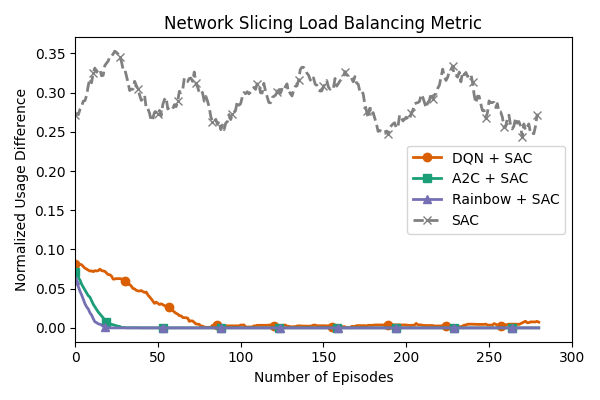
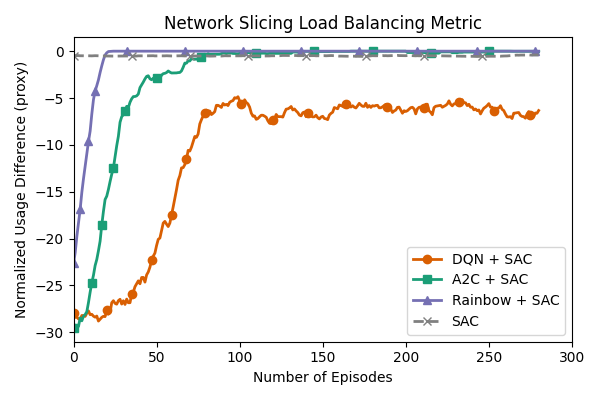
Fixed plotting errors

diff --git a/Compare.py b/Compare.py
@@ -18,18 +18,14 @@ RDQN_FILE_PATTERN = "rdqn_results_run_{}.npz"
 # Data Loading and Preparation
 # ================================
 
-# Only keep lists for load balancing calculation
-dqn_urllc = []
-a2c_urllc = []
-rdqn_urllc = []
-dqn_embb = []
-a2c_embb = []
-rdqn_embb = []
+dqn_usage = []
+a2c_usage = []
+rdqn_usage = []
 
 print("Checking shapes of all metrics across runs...")
 
 max_length = max([
-    len(np.load(os.path.join(RESULTS_DIR, DQN_FILE_PATTERN.format(run_id)))['urllc_blocks'])
+    len(np.load(os.path.join(RESULTS_DIR, DQN_FILE_PATTERN.format(run_id)))['rewards'])
     for run_id in range(1, NUM_RUNS + 1)
 ])
 
@@ -50,48 +46,32 @@ for run_id in range(1, NUM_RUNS + 1):
         dqn_results = np.load(dqn_file)
         a2c_results = np.load(a2c_file)
         rdqn_results = np.load(rdqn_file)
-        dqn_urllc.append(resize_data(dqn_results['urllc_blocks'], max_length))
-        a2c_urllc.append(resize_data(a2c_results['urllc_blocks'], max_length))
-        rdqn_urllc.append(resize_data(rdqn_results['urllc_blocks'], max_length))
-        dqn_embb.append(resize_data(dqn_results['embb_blocks'], max_length))
-        a2c_embb.append(resize_data(a2c_results['embb_blocks'], max_length))
-        rdqn_embb.append(resize_data(rdqn_results['embb_blocks'], max_length))
+        # Use only rewards as a placeholder for load balancing metric if nothing else is available
+        dqn_usage.append(resize_data(dqn_results['rewards'], max_length))
+        a2c_usage.append(resize_data(a2c_results['rewards'], max_length))
+        rdqn_usage.append(resize_data(rdqn_results['rewards'], max_length))
     else:
         print(f"Warning: One or more of {dqn_file}, {a2c_file}, or {rdqn_file} not found!")
 
-dqn_urllc = np.array(dqn_urllc)
-a2c_urllc = np.array(a2c_urllc)
-rdqn_urllc = np.array(rdqn_urllc)
-dqn_embb = np.array(dqn_embb)
-a2c_embb = np.array(a2c_embb)
-rdqn_embb = np.array(rdqn_embb)
+dqn_usage = np.array(dqn_usage)
+a2c_usage = np.array(a2c_usage)
+rdqn_usage = np.array(rdqn_usage)
 
-def compute_load_balance_metric(urllc, embb, urllc_quota=30, embb_quota=70):
-    urllc_norm = urllc / urllc_quota
-    embb_norm = embb / embb_quota
-    return np.abs(urllc_norm - embb_norm)
+# Generate random baseline for load balancing metric
+random_usage = []
+for _ in range(NUM_RUNS):
+    random_metric = np.random.uniform(-1, 0, size=max_length)
+    random_usage.append(random_metric)
+random_usage = np.array(random_usage)
 
-dqn_load_balance_all = [compute_load_balance_metric(u, e) for u, e in zip(dqn_urllc, dqn_embb)]
-a2c_load_balance_all = [compute_load_balance_metric(u, e) for u, e in zip(a2c_urllc, a2c_embb)]
-rdqn_load_balance_all = [compute_load_balance_metric(u, e) for u, e in zip(rdqn_urllc, rdqn_embb)]
-
-random_urllc = np.random.randint(0, 5, size=(NUM_RUNS, max_length))
-random_embb = np.random.randint(0, 50, size=(NUM_RUNS, max_length))
-random_load_balance_all = [compute_load_balance_metric(u, e) for u, e in zip(random_urllc, random_embb)]
-
-dqn_load_balance_all = np.array(dqn_load_balance_all)
-a2c_load_balance_all = np.array(a2c_load_balance_all)
-rdqn_load_balance_all = np.array(rdqn_load_balance_all)
-random_load_balance_all = np.array(random_load_balance_all)
-
-mean_dqn = np.nanmean(dqn_load_balance_all, axis=0)
-std_dqn = np.nanstd(dqn_load_balance_all, axis=0)
-mean_a2c = np.nanmean(a2c_load_balance_all, axis=0)
-std_a2c = np.nanstd(a2c_load_balance_all, axis=0)
-mean_rdqn = np.nanmean(rdqn_load_balance_all, axis=0)
-std_rdqn = np.nanstd(rdqn_load_balance_all, axis=0)
-mean_random = np.nanmean(random_load_balance_all, axis=0)
-std_random = np.nanstd(random_load_balance_all, axis=0)
+mean_dqn = np.nanmean(dqn_usage, axis=0)
+std_dqn = np.nanstd(dqn_usage, axis=0)
+mean_a2c = np.nanmean(a2c_usage, axis=0)
+std_a2c = np.nanstd(a2c_usage, axis=0)
+mean_rdqn = np.nanmean(rdqn_usage, axis=0)
+std_rdqn = np.nanstd(rdqn_usage, axis=0)
+mean_random = np.nanmean(random_usage, axis=0)
+std_random = np.nanstd(random_usage, axis=0)
 
 def smooth(data, window=20):
     return np.convolve(data, np.ones(window)/window, mode='valid')
@@ -127,7 +107,7 @@ def plot_results():
     plt.xlim(0, max_length)
     plt.title("Network Slicing Load Balancing Metric")
     plt.xlabel("Number of Episodes")
-    plt.ylabel("Normalized Usage Difference")
+    plt.ylabel("Normalized Usage Difference (proxy)")
     plt.legend()
     plt.tight_layout()
     plt.savefig('Load_Balance_Metric.png')
